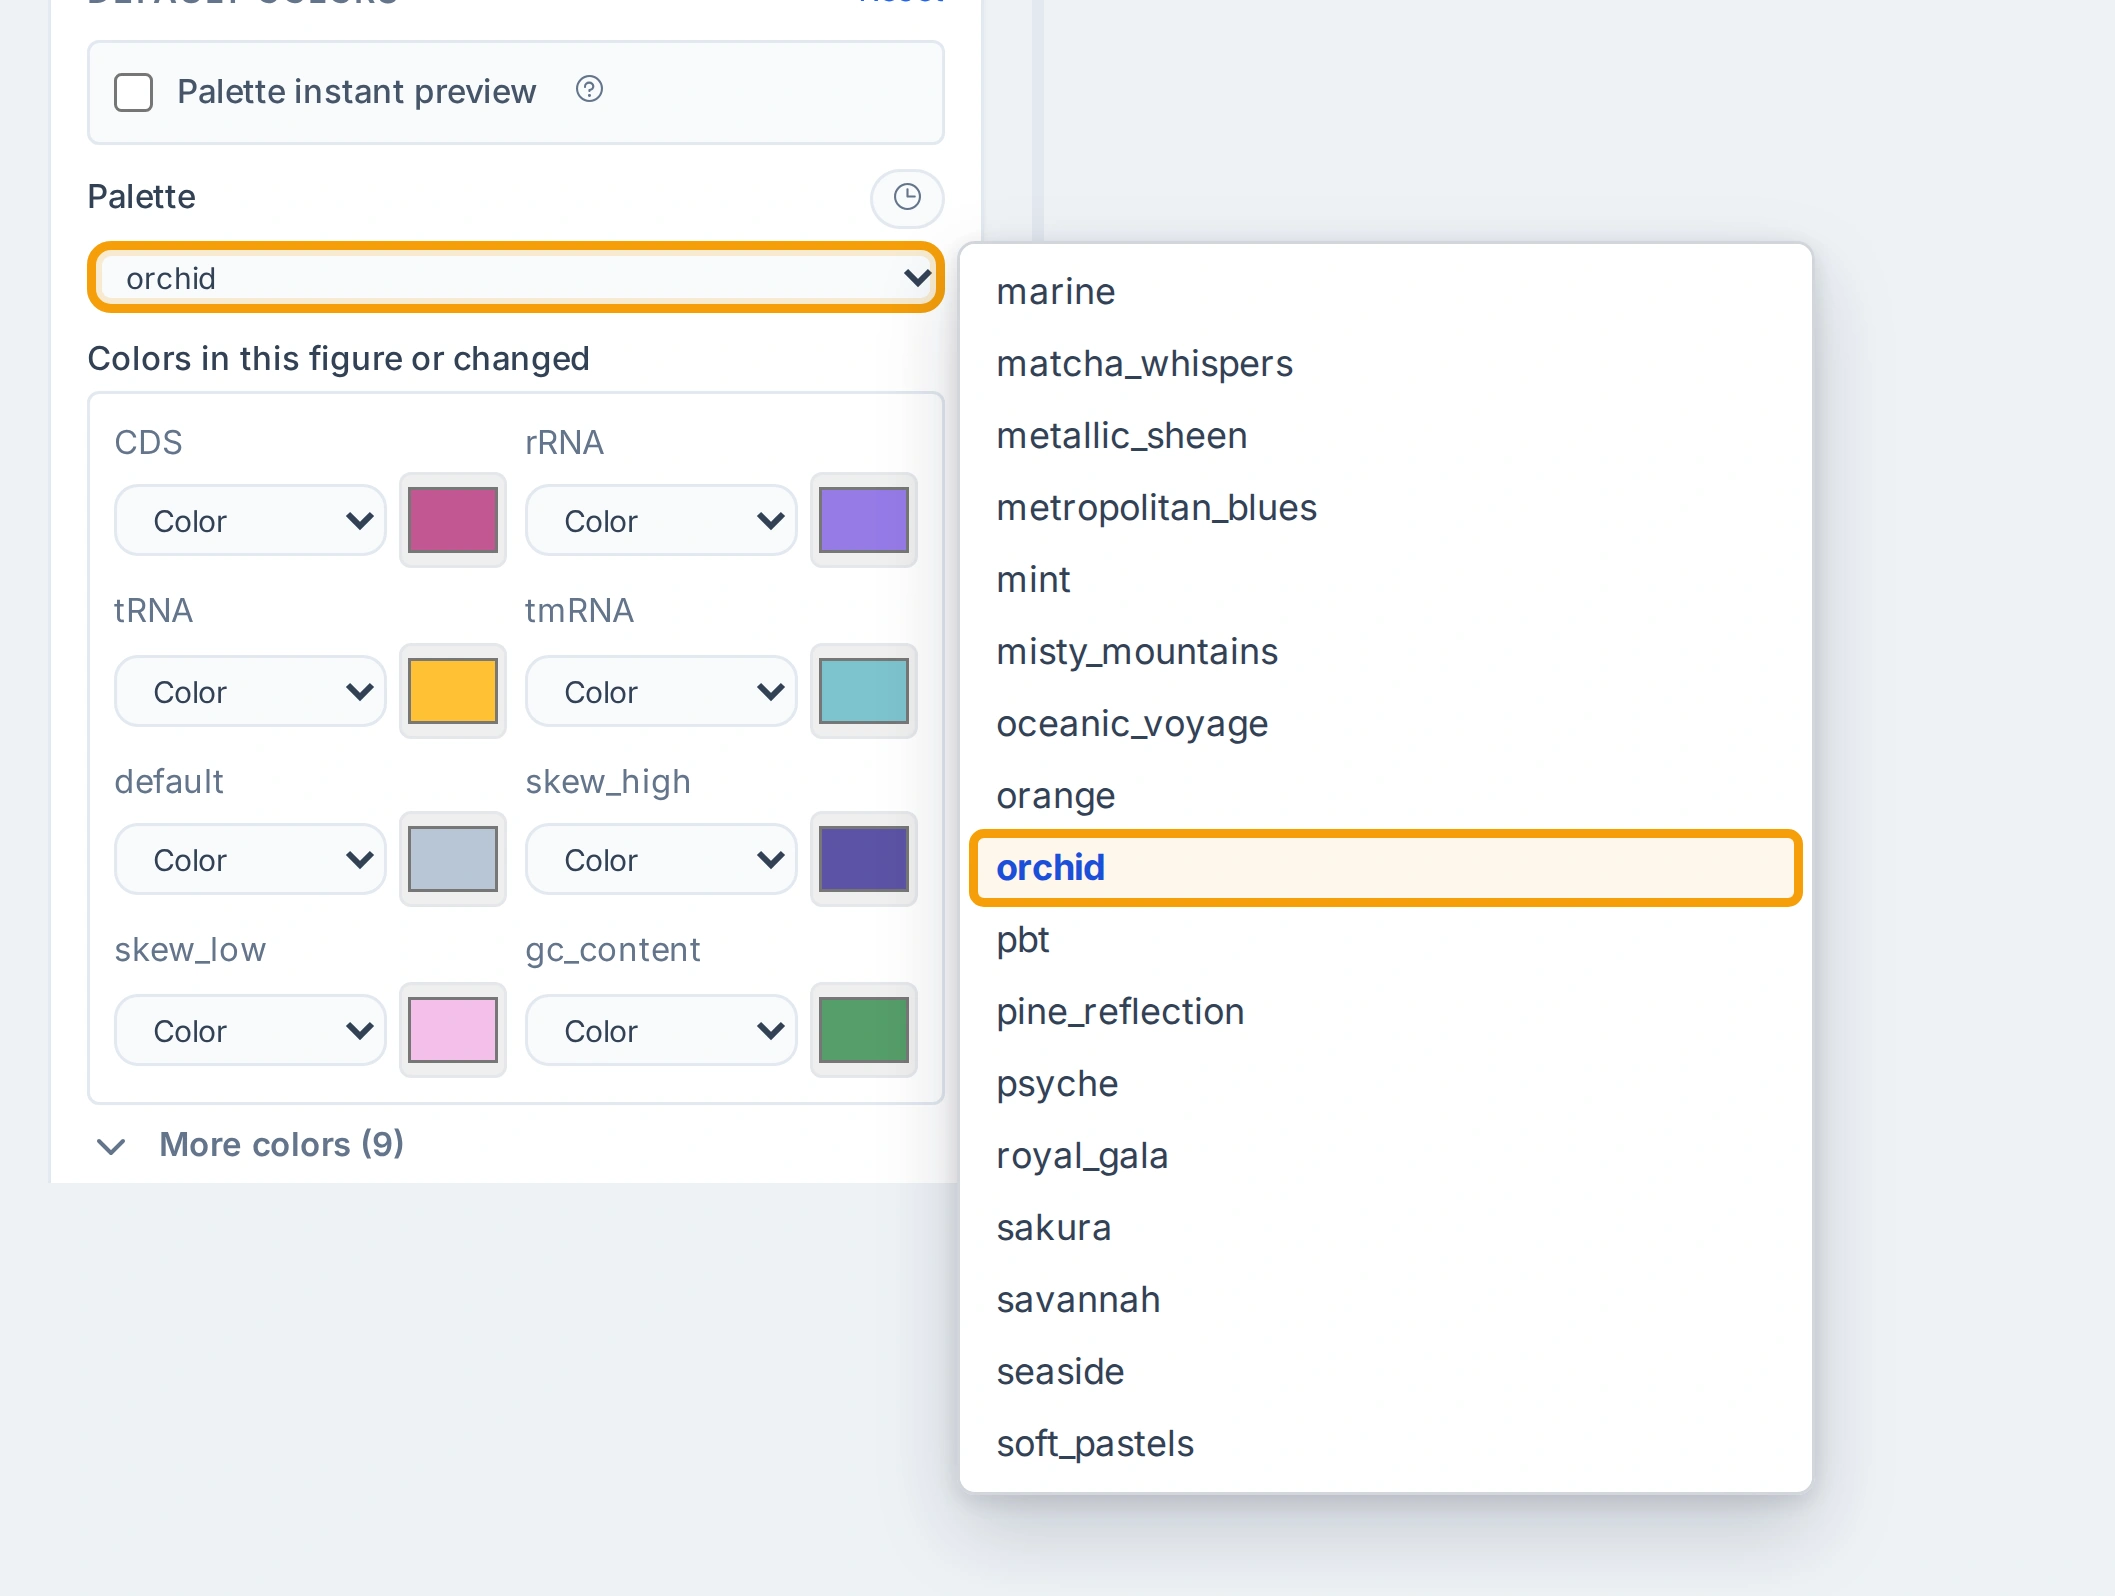
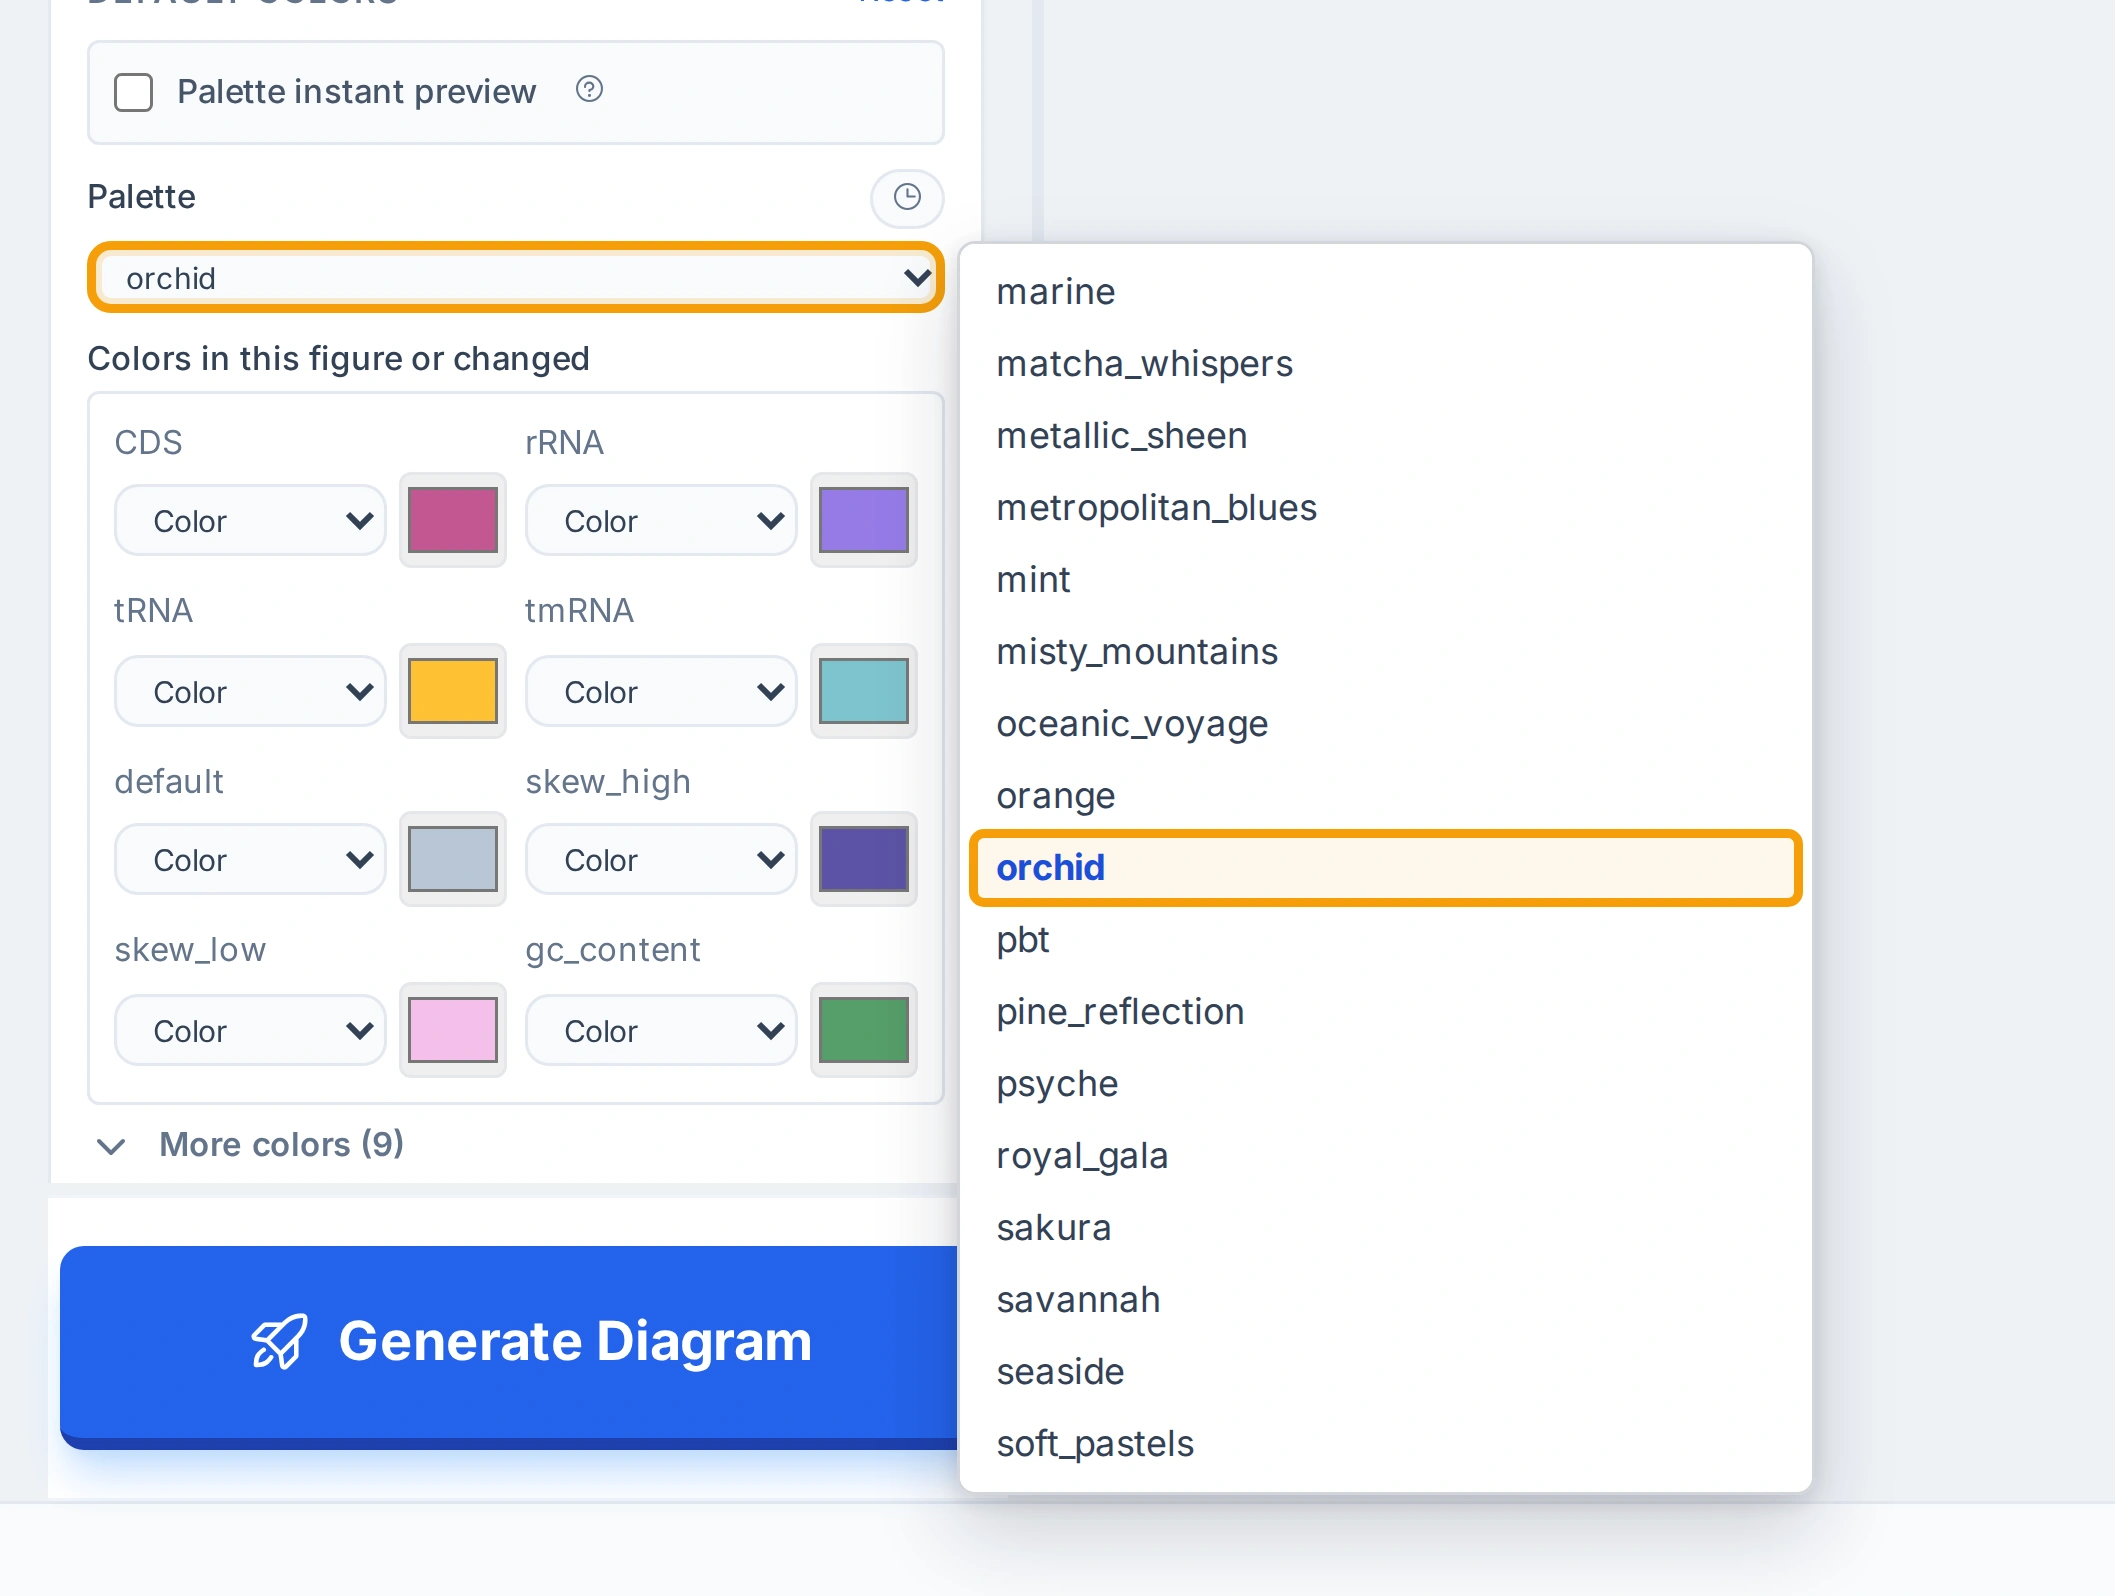
Keep the footer-anchored Generate bar in open-select crops, and name the Vnig palette select
- The open-select rule hid the footer element, and the Settings pane's
  Generate Diagram bar, anchored to it, hid with it: Vnig step 5 lost the
  button its step names. The rule now hides the footer's text only; the
  browser test has a footer-anchored bar and checks it stays drawn in place.
- Vnig step 5's openSelect names its select (select[aria-label='Palette'])
  in place of card text and position; the tool drops that lookup, and
  --check refuses cardTitle and selectIndex in openSelect specs.

Changed region(s): [[0.0312, 0.7675, 0.4681, 0.9211]]

diff --git a/tests/test_gallery_capture_browser.py b/tests/test_gallery_capture_browser.py
@@ -22,7 +22,7 @@ def test_open_select_overlay_keeps_selected_option_of_a_long_list_in_the_crop() 
             page = browser.new_page(viewport={"width": 800, "height": 600})
             page.set_content(html)
             capture_tool.apply_open_select_overlays(
-                page, {"selectedLabel": "palette_40", "cardTitle": "Colors", "placement": "right"}
+                page, {"selectedLabel": "palette_40", "selector": "select", "placement": "right"}
             )
             clip = capture_tool.capture_open_select_clip(page, capture_tool.normalize_crop_padding(12))
             selected = page.evaluate(
@@ -49,22 +49,33 @@ def test_a_capture_hides_what_lies_around_its_subject_and_moves_nothing() -> Non
     playwright_api = pytest.importorskip("playwright.sync_api")
     html = (
         "<html><body style='margin:0'><header class='app-header'>gbdraw</header>"
-        "<main><div class='settings-pane' style='width:300px'><select><option>A</option></select></div>"
-        "<div id='result-pane'>figure</div></main><footer data-app-footer>Disclaimer</footer></body></html>"
+        "<style>footer[data-app-footer] { anchor-name: --app-footer; }"
+        ".generate-bar { position: fixed; left: 0; width: 300px; height: 40px; position-anchor: --app-footer;"
+        " bottom: anchor(top); }</style>"
+        "<main><div class='settings-pane' style='width:300px'><select><option>A</option></select>"
+        "<div class='generate-bar'>Generate Diagram</div></div>"
+        "<div id='result-pane'>figure</div></main>"
+        "<footer data-app-footer style='height:32px'><span>Disclaimer</span></footer></body></html>"
     )
-    hidden = """() => Object.fromEntries(['.app-header', '.settings-pane', '#result-pane', '[data-app-footer]']
+    hidden = """() => Object.fromEntries(['.app-header', '.settings-pane', '#result-pane', '[data-app-footer] span']
       .map((selector) => [selector, getComputedStyle(document.querySelector(selector)).visibility === 'hidden']))"""
+    # The pane's Generate bar is anchored to the footer: it must stay drawn, at its place (OV-3395 review).
+    bar = """() => { const bar = document.querySelector('.generate-bar'); const rect = bar.getBoundingClientRect();
+      return { shown: bar.checkVisibility({ visibilityProperty: true }) && document.elementFromPoint(rect.x + 5, rect.y + 5) === bar,
+               top: rect.top }; }"""
     with playwright_api.sync_playwright() as playwright:
         browser = playwright.chromium.launch()
         try:
             page = browser.new_page(viewport={"width": 800, "height": 600})
             page.set_content(html)
             before = page.evaluate("() => document.querySelector('#result-pane').getBoundingClientRect().toJSON()")
+            bar_before = page.evaluate(bar)
             capture_tool.hide_settings_pane_under_popup(page)
             no_popup = page.evaluate(hidden)
             capture_tool.hide_page_around_settings_pane(page)
             open_select = page.evaluate(hidden)
             after = page.evaluate("() => document.querySelector('#result-pane').getBoundingClientRect().toJSON()")
+            bar_after = page.evaluate(bar)
             page.set_content(html.replace("</main>", "<div class='feature-popup'>dnaA</div></main>"))
             capture_tool.hide_settings_pane_under_popup(page)
             popup = page.evaluate(hidden)
@@ -72,6 +83,7 @@ def test_a_capture_hides_what_lies_around_its_subject_and_moves_nothing() -> Non
             browser.close()
 
     assert not any(no_popup.values())
-    assert open_select == {".app-header": True, ".settings-pane": False, "#result-pane": True, "[data-app-footer]": True}
+    assert open_select == {".app-header": True, ".settings-pane": False, "#result-pane": True, "[data-app-footer] span": True}
     assert before == after
-    assert popup == {".app-header": False, ".settings-pane": True, "#result-pane": False, "[data-app-footer]": False}
+    assert bar_before["shown"] and bar_after == bar_before
+    assert popup == {".app-header": False, ".settings-pane": True, "#result-pane": False, "[data-app-footer] span": False}

diff --git a/tools/capture_gallery_tutorial_screenshots.py b/tools/capture_gallery_tutorial_screenshots.py
@@ -498,10 +498,22 @@ def add_step_text_validation(
         for operation in as_array(step.get("operations"))
         if isinstance(operation, dict) and isinstance(operation.get("capture"), dict)
     ]
+    open_selects = [
+        spec
+        for capture in captures
+        for spec in as_array(capture.get("openSelect"))
+        + ([capture["openSelect"]] if isinstance(capture.get("openSelect"), dict) else [])
+        if isinstance(spec, dict)
+    ]
     if any("cardTitle" in capture for capture in captures):
         result.errors.append(
             f"{context.label}: a capture finds its card by text (cardTitle), which matches the first card "
             "that names it anywhere; give selector \".card[data-settings-section='<key>']\"."
+        )
+    if any("cardTitle" in spec or "selectIndex" in spec for spec in open_selects):
+        result.errors.append(
+            f"{context.label}: an openSelect finds its select by card text and position (cardTitle, "
+            "selectIndex); give its selector, for example \"select[aria-label='Palette']\"."
         )
     actions = [json.dumps(action, ensure_ascii=False) for capture in captures for action in as_array(capture.get("actions"))]
     if any(CAPTURE_POSITION_PICK.search(action) for action in actions):
@@ -966,23 +978,11 @@ def apply_open_select_overlays(page, open_select: Any) -> None:
             return matches[nth] || null;
           };
 
-          const selectInCard = (cardTitle, selectIndex = 0) => {
-            const titleKey = normalizeKey(cardTitle);
-            const cards = Array.from(document.querySelectorAll('.card'));
-            const card = cards.find((candidate) => {
-              const header = candidate.querySelector('.card-header, summary');
-              return normalizeKey(header?.textContent || '').includes(titleKey);
-            });
-            if (!card) return null;
-            return Array.from(card.querySelectorAll('select'))[Number(selectIndex || 0)] || null;
-          };
-
           const resolveSelect = (spec) => {
             if (spec.selector) {
               const selected = document.querySelector(spec.selector);
               if (selected?.tagName === 'SELECT') return selected;
             }
-            if (spec.cardTitle) return selectInCard(spec.cardTitle, spec.selectIndex);
             if (spec.label) return selectNearLabel(spec.label, Number(spec.nth || 0));
             return null;
           };
@@ -1523,13 +1523,14 @@ def hide_settings_pane_under_popup(page) -> None:
 
 def hide_page_around_settings_pane(page) -> None:
     """An open-select crop shows a settings control and its menu, which may reach past the
-    Settings pane: hide the rest of the page (header, Result, footer), so the crop's edge cuts
-    no figure, button or text there (OV-3374). Everything keeps its place."""
+    Settings pane: hide the rest of the page (header, Result, the footer's text), so the crop's
+    edge cuts no figure, button or text there (OV-3395). Everything keeps its place, and the
+    footer itself stays: the pane's Generate bar is anchored to it and would hide with it."""
 
     page.evaluate(
         """
         () => {
-          document.querySelectorAll('.app-header, #result-pane, [data-app-footer]').forEach((element) => {
+          document.querySelectorAll('.app-header, #result-pane, [data-app-footer] > *').forEach((element) => {
             element.style.setProperty('visibility', 'hidden', 'important');
           });
         }

diff --git a/tests/test_gallery_capture_contracts.py b/tests/test_gallery_capture_contracts.py
@@ -1253,6 +1253,12 @@ def test_capture_finds_its_card_by_section_identity_not_by_text() -> None:
     capture_tool.add_step_text_validation(
         result, _manual_context(3), step({"selector": ".card[data-settings-section='layout']"})
     )
+    capture_tool.add_step_text_validation(
+        result, _manual_context(4), step({"openSelect": {"selectedLabel": "orchid", "cardTitle": "Colors", "selectIndex": 1}})
+    )
+    capture_tool.add_step_text_validation(
+        result, _manual_context(5), step({"openSelect": [{"selectedLabel": "orchid", "selector": "select[aria-label='Palette']"}]})
+    )
 
-    assert [error.split(":")[0] for error in result.errors] == [_manual_context(2).label]
-    assert "cardTitle" in result.errors[0]
+    assert [error.split(":")[0] for error in result.errors] == [_manual_context(2).label, _manual_context(4).label]
+    assert "cardTitle" in result.errors[0] and "selectIndex" in result.errors[1]
